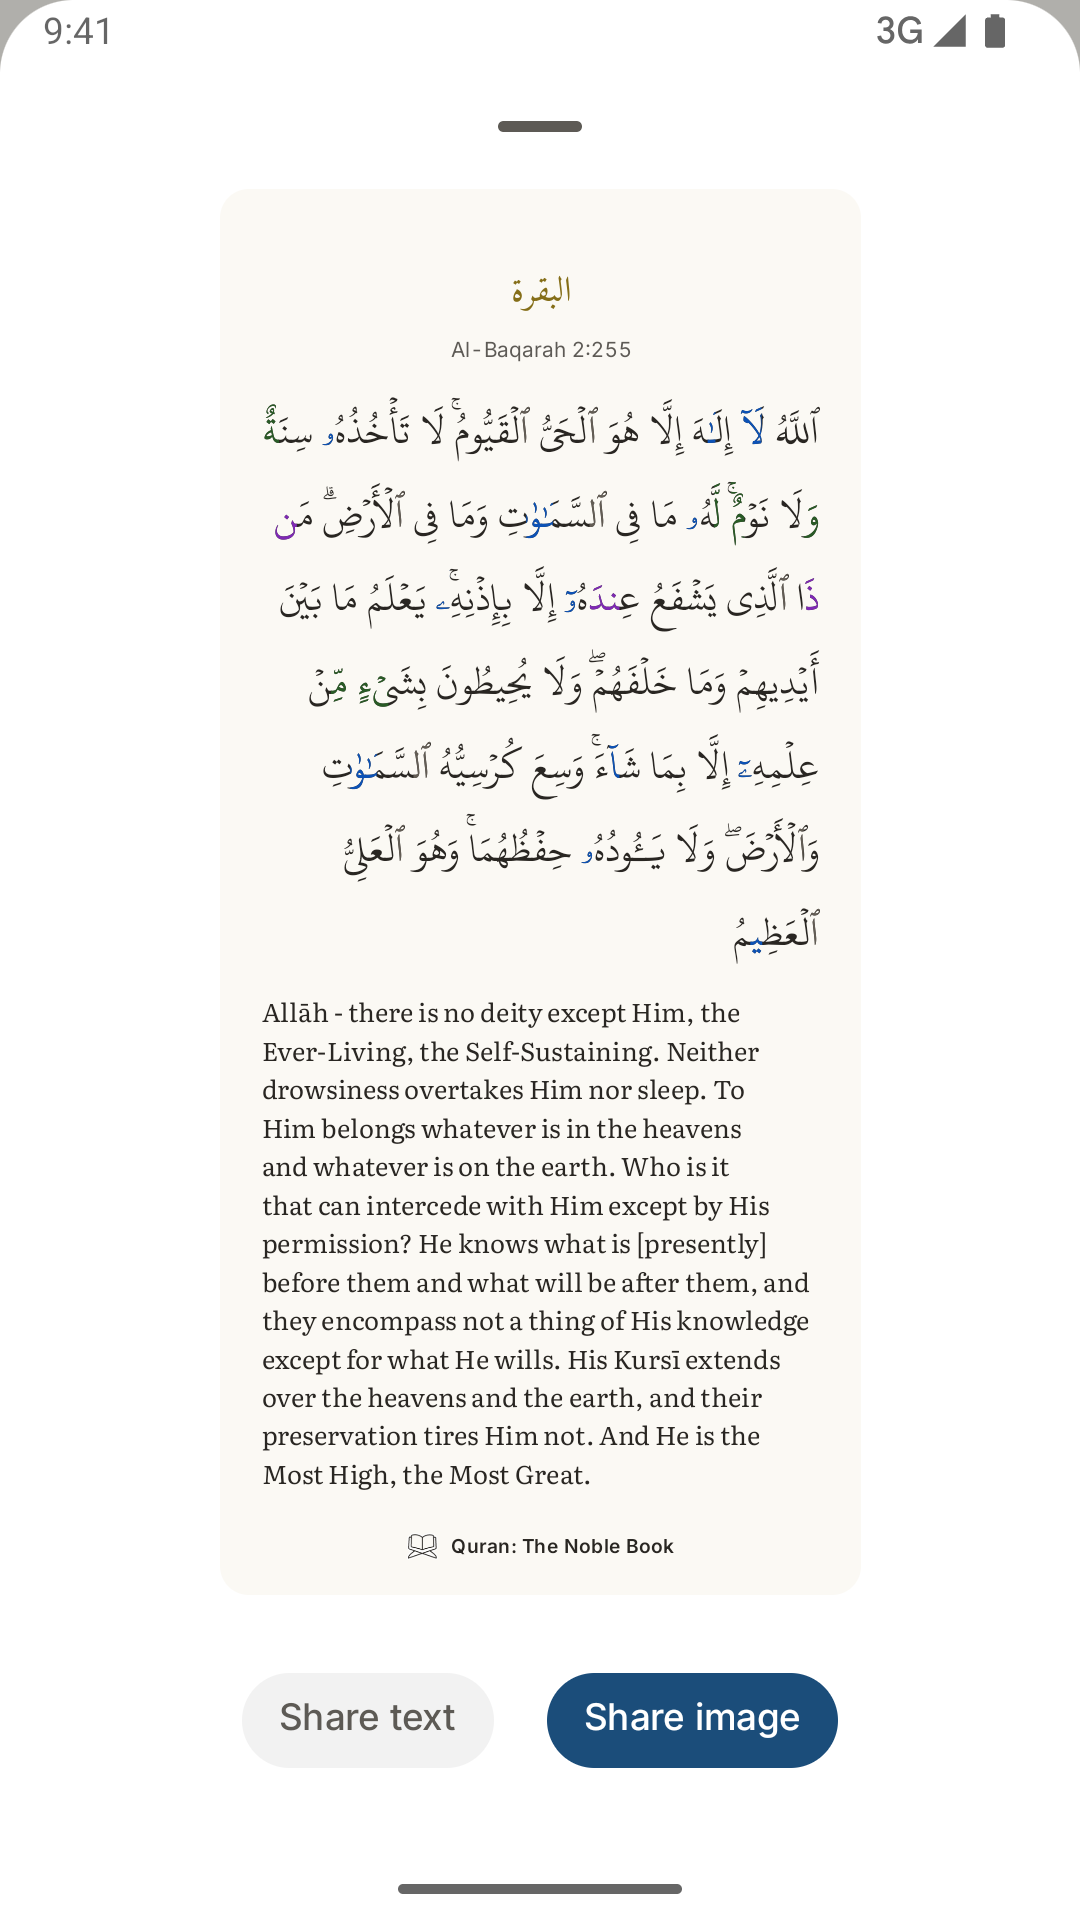
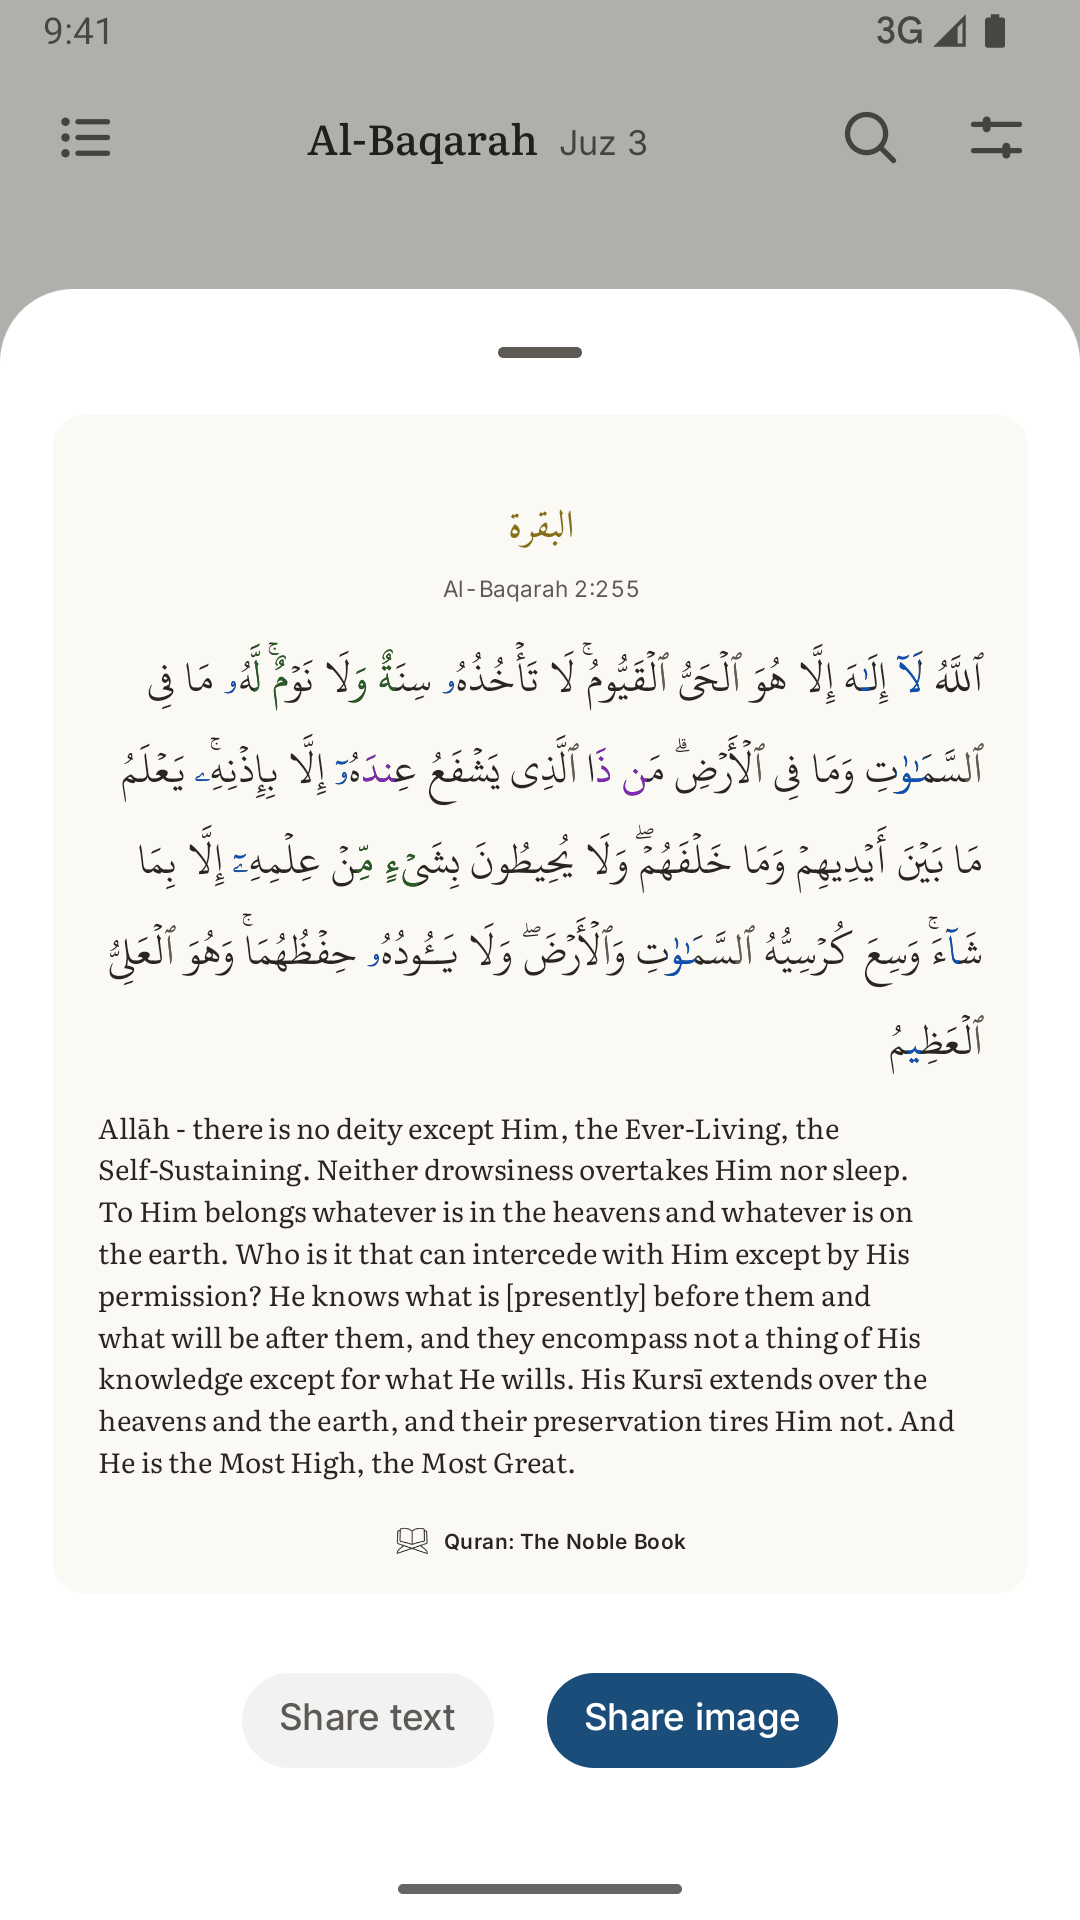
21.7: the share card meets the feed

diff --git a/app/src/test/kotlin/io/github/muntasimulhaque/quran/ShareCardWidthTest.kt b/app/src/test/kotlin/io/github/muntasimulhaque/quran/ShareCardWidthTest.kt
@@ -1,8 +1,8 @@
 package io.github.muntasimulhaque.quran
 
 import androidx.compose.ui.unit.dp
+import io.github.muntasimulhaque.quran.ui.reader.ShareCardFeedLimit
 import io.github.muntasimulhaque.quran.ui.reader.ShareCardMeasure
-import io.github.muntasimulhaque.quran.ui.reader.ShareCardPosterRatio
 import io.github.muntasimulhaque.quran.ui.reader.ShareCardWidths
 import io.github.muntasimulhaque.quran.ui.reader.shareCardWidth
 import org.junit.Assert.assertEquals
@@ -12,32 +12,36 @@ import org.junit.Test
 /**
  * The card's shape, chosen by arithmetic on a machine with no screen.
  *
- * The card is one column of reading with a height the ayah decides, so a long
- * ayah used to leave the app as a 1:3 or a 1:9 strip. The card now widens
- * before it grows into one, and this is the rule that decides by how much:
- * the ladder's width whose measured card stands closest to
- * [ShareCardPosterRatio], stopping at the first card at or under the ratio
- * because every wider one is shorter still.
+ * A feed gives a picture the feed's own width only while the picture stands
+ * within [ShareCardFeedLimit], and a taller one is contained into a shorter
+ * box. The card widens until it stands inside that limit, and this is the
+ * rule that decides by how much: the narrowest rung whose measured card
+ * fits, or the widest rung when no rung does.
  *
- * The numbers below are the shapes the owner's two cards had when the rule
- * was written: Al-Baqarah 2:255, which the card the owner shared carried at
- * 1:3.1, and 2:282, the longest ayah, at about 1:7.3. The preview reports
+ * The numbers below are the shapes the two cards measured when the rule was
+ * re-aimed at the feed: Al-Baqarah 2:255, the card the owner shared when
+ * Facebook stood it narrow, and 2:282, the longest ayah. The three narrower
+ * 2:255 measures were recorded when the ladder was written, and the 560 one
+ * was taken from the capture's own 3x print on quran_phone, because a
+ * card's height is a drawn thing and not arithmetic. The preview reports
  * the chosen width through `onWidth` and the capture draws that same width,
  * so this is the one answer the two surfaces share.
  */
-class ShareCardPosterTest {
+class ShareCardWidthTest {
 
     @Test
-    fun theLongAyahWidensToItsPoster() {
-        // 2:255 measured at the ladder; the preview stops at 480, the first
-        // card at or under 2:1, and 400 is the closer of the three.
+    fun theLongAyahWidensIntoTheFeed() {
+        // 2:255 measured at the ladder: the first three rungs stand outside
+        // the limit and the 560 card is the first inside it.
         assertEquals(
-            400.dp,
+            560.dp,
             shareCardWidth(
                 listOf(
                     ShareCardMeasure(320.dp, 960.dp),
                     ShareCardMeasure(400.dp, 860.dp),
                     ShareCardMeasure(480.dp, 692.dp),
+                    // The capture printed 2,027 px at its 3x, a 1.207 shape.
+                    ShareCardMeasure(560.dp, 676.dp),
                 ),
             ),
         )
@@ -45,7 +49,8 @@ class ShareCardPosterTest {
 
     @Test
     fun theLongestAyahTakesTheWidestCard() {
-        // 2:282 never reaches 2:1, so the widest card is the closest it gets.
+        // 2:282 never fits the limit, so the widest card is the closest it
+        // gets.
         assertEquals(
             560.dp,
             shareCardWidth(
@@ -61,36 +66,22 @@ class ShareCardPosterTest {
 
     @Test
     fun anOrdinaryAyahKeepsOneColumn() {
-        // A card already squarer than the poster is not widened: every wider
-        // card is shorter still, and farther from the shape the card wants.
+        // A card already inside the limit is not widened: every wider rung
+        // only spreads the same type over more dp.
         assertEquals(320.dp, shareCardWidth(listOf(ShareCardMeasure(320.dp, 380.dp))))
     }
 
     @Test
-    fun theWidthWhoseCardIsClosestWins() {
-        // At 320 the card is 2.5 times tall and at 400 it is 1.9: the 400 card
-        // is the nearer one even though the 320 card already reads as a card.
+    fun theCardStaysAtTheFirstRungInsideTheLimit() {
+        // At 320 the card stands outside the limit and at 400 it is inside:
+        // the 400 card is the narrowest that fits, so the type stays as
+        // large as the limit allows.
         assertEquals(
             400.dp,
             shareCardWidth(
                 listOf(
-                    ShareCardMeasure(320.dp, 800.dp),
-                    ShareCardMeasure(400.dp, 760.dp),
-                ),
-            ),
-        )
-    }
-
-    @Test
-    fun aTieGoesToTheNarrowerCard() {
-        // 2.5 and 1.5 are equally far from the 2:1 the card wants; the narrow
-        // card keeps the type large, so the tie goes to it.
-        assertEquals(
-            320.dp,
-            shareCardWidth(
-                listOf(
-                    ShareCardMeasure(320.dp, 800.dp),
-                    ShareCardMeasure(400.dp, 600.dp),
+                    ShareCardMeasure(320.dp, 560.dp),
+                    ShareCardMeasure(400.dp, 470.dp),
                 ),
             ),
         )
@@ -104,7 +95,7 @@ class ShareCardPosterTest {
             "the ladder rises",
             ShareCardWidths.zipWithNext().all { (narrow, wide) -> wide > narrow },
         )
-        assertEquals("the poster ratio", 2f, ShareCardPosterRatio, 0.001f)
+        assertEquals("the feed's own portrait, five quarters tall", 1.25f, ShareCardFeedLimit, 0.001f)
         assertEquals(
             "an unmeasured card keeps the one column",
             320.dp,

diff --git a/app/src/main/kotlin/io/github/muntasimulhaque/quran/ui/reader/ShareCard.kt b/app/src/main/kotlin/io/github/muntasimulhaque/quran/ui/reader/ShareCard.kt
@@ -48,34 +48,44 @@ import io.github.muntasimulhaque.quran.ui.theme.Space
 import io.github.muntasimulhaque.quran.ui.theme.rememberHafs
 import kotlinx.coroutines.Dispatchers
 import kotlinx.coroutines.withContext
-import kotlin.math.abs
 
 /**
  * The widths a card may take, narrowest first.
  *
  * The card is one column of reading at 320 dp, the width that shows a phone
- * ayah well. Its height is the ayah's and not a design number, so a long ayah
- * would otherwise be a strip: at 320, Al-Baqarah 2:255 is 1:3 and 2:282 is
- * 1:9, and a receiver that clamps a tall picture at 1280 px shows the longest
- * one about 174 px wide. The card therefore widens before it grows into a
- * strip, in 80 dp steps up to the 560 that is still narrower than the
- * reading's own 600 dp page. [shareCardWidth] picks the step from the
- * measured card, and the preview and the capture both read that one answer
- * (owner decision, this version).
+ * ayah well. Its height is the ayah's and not a design number, so a long
+ * ayah would otherwise be a strip: at 320, Al-Baqarah 2:255 is 1:3 and
+ * 2:282 is 1:9, and a receiver that clamps a tall picture at 1280 px shows
+ * the longest one about 174 px wide. But the reason a card widens is bigger
+ * than the strip: a feed gives a picture the feed's own width only while
+ * the picture stands within [ShareCardFeedLimit], and a taller one is shown
+ * whole in a shorter box, standing narrow with the feed's ground where the
+ * width should be (owner report, 21.7). The card therefore widens, in 80 dp
+ * steps up to the 560 that is still narrower than the reading's own 600 dp
+ * page, until it stands inside the limit; the longest ayahs, which overflow
+ * every rung, take the 560, the closest any card gets. [shareCardWidth]
+ * picks the rung from the measured card, and the preview and the capture
+ * both read that one answer (owner decision, 21.7).
  */
 internal val ShareCardWidths = listOf(320.dp, 400.dp, 480.dp, 560.dp)
 
 /**
- * The shape every card aims at: twice as tall as it is wide.
+ * The tallest card a feed still shows at its own width: five quarters as
+ * tall as it is wide, the 4:5 portrait (1080 by 1350) that Meta names as
+ * the feed's own shape for a single picture.
  *
- * A portrait poster at 1:2 is a chat picture; 1:3 is a receipt and 1:9 is a
- * strip a receiver shrinks to nothing. The card takes the width whose measured
- * card stands closest to this ratio, because a wider card is a shorter card,
- * and a receiver that clamps the height shows a shorter picture wider and its
- * type larger. The common ayah never leaves 320; Al-Baqarah 2:255 lands at 400
- * (1:2.15) and 2:282 at 560 (1:2.26) (owner decision, this version).
+ * A chat clamps pixels and a feed clamps shape. The card's former aim, a
+ * 1:2 portrait, is a chat picture: a receiver that clamps a tall picture's
+ * pixels shows it whole, only smaller. But Facebook's feed, and Instagram's,
+ * hold a picture to 4:5 before they give it the feed's width, and a taller
+ * one is contained into a shorter box or center-cropped on the surfaces
+ * that crop, which is what the owner's shared 2:255 card met: it left the
+ * app at 1:2.15 and Facebook stood it narrow (owner report, 21.7). At the
+ * ladder's 560 the same card stands near a square and takes the feed's
+ * whole width, so the card aims inside this limit rather than at a shape
+ * of its own choosing (owner decision, 21.7).
  */
-internal const val ShareCardPosterRatio = 2f
+internal const val ShareCardFeedLimit = 1.25f
 
 /** One measured card: the width it was drawn at, and the height it took. */
 internal data class ShareCardMeasure(val width: Dp, val height: Dp) {
@@ -84,30 +94,21 @@ internal data class ShareCardMeasure(val width: Dp, val height: Dp) {
 }
 
 /**
- * The width whose card stands closest to [ShareCardPosterRatio].
+ * The narrowest rung whose card stands inside [ShareCardFeedLimit].
  *
- * [measures] are the cards measured narrowest first. The search stops at the
- * first width at or under the ratio, because every wider card is shorter
- * still and can only be farther from it; a tie goes to the narrower card, and
- * an empty list to the ladder's first width. The arithmetic is here so a JVM
- * test can pin the rule without a screen, which is the only way a card's
- * shape can be read back.
+ * [measures] are the cards measured narrowest first, and every wider rung
+ * is shorter still, so the search stops at the first width inside the
+ * limit and no wider one is needed. A card that overflows every measured
+ * rung takes the last one, the widest, which is the closest any rung gets
+ * to the limit; an empty list keeps the ladder's first width. The
+ * arithmetic is here so a JVM test can pin the rule without a screen, which
+ * is the only way a card's shape can be read back.
  */
 internal fun shareCardWidth(measures: List<ShareCardMeasure>): Dp {
-    val first = measures.firstOrNull() ?: return ShareCardWidths.first()
-    var best = first
-    var bestGap = abs(first.ratio - ShareCardPosterRatio)
-    if (first.ratio > ShareCardPosterRatio) {
-        for (measure in measures.drop(1)) {
-            val gap = abs(measure.ratio - ShareCardPosterRatio)
-            if (gap < bestGap) {
-                best = measure
-                bestGap = gap
-            }
-            if (measure.ratio <= ShareCardPosterRatio) break
-        }
+    for (measure in measures) {
+        if (measure.ratio <= ShareCardFeedLimit) return measure.width
     }
-    return best.width
+    return measures.lastOrNull()?.width ?: ShareCardWidths.first()
 }
 
 /**

diff --git a/app/src/main/kotlin/io/github/muntasimulhaque/quran/ui/reader/ShareSheet.kt b/app/src/main/kotlin/io/github/muntasimulhaque/quran/ui/reader/ShareSheet.kt
@@ -197,15 +197,17 @@ internal fun ShareCardPreview(card: ShareCard, width: Dp = ShareCardWidths.first
  * an ordinary ayah was cut; the version before this one scaled the whole card
  * at a fixed 320 dp, which showed a long ayah as a 1:3 strip and the longest
  * as a 1:9 one. The preview now measures the card at each of
- * [ShareCardWidths] and keeps the one closest to [ShareCardPosterRatio], then
- * says that width through [onWidth] so the capture draws the same card. The
- * layer carries the scale to the drawing, so the type is set at the card's
- * own size and then reduced as one picture, which is exactly what the shared
- * image is. The card never scales up past 1, because a preview of a 320 dp
- * artifact should not be larger than the artifact.
+ * [ShareCardWidths] and keeps the narrowest one that stands inside
+ * [ShareCardFeedLimit], or the widest when the card overflows them all
+ * (owner decision, 21.7), then says that width through [onWidth] so the
+ * capture draws the same card. The layer carries the scale to the drawing,
+ * so the type is set at the card's own size and then reduced as one
+ * picture, which is exactly what the shared image is. The card never scales
+ * up past 1, because a preview of a 320 dp artifact should not be larger
+ * than the artifact.
  *
- * The measure stops at the first width at or under the poster ratio: every
- * wider card is shorter still, so nothing wider can stand closer to it. The
+ * The measure stops at the first width inside the feed limit: every wider
+ * card is shorter still, so no wider rung is needed once one fits. The
  * writes to the chosen width are guarded, so the first frame settles on one
  * answer and the measure does not run again.
  *
@@ -247,7 +249,7 @@ internal fun ShareCardPreviewBox(
                     .measure(Constraints.fixedWidth(wide))
                 cards += width to placeable
                 measured += ShareCardMeasure(width, with(density) { placeable.height.toDp() })
-                if (measured.last().ratio <= ShareCardPosterRatio) break
+                if (measured.last().ratio <= ShareCardFeedLimit) break
             }
             val width = shareCardWidth(measured)
             if (width != chosen) chosen = width

diff --git a/README.md b/README.md
@@ -200,46 +200,31 @@ tagged `owner decision`, and a test measures the ones that can be measured, so
 
 ## Status
 
-**21.6 (versionCode 218).** The whole JVM suite, `checkdb`, `search`,
-lint, and `assembleDebug` were green on this machine before the push, and the
-four accessibility classes ran on the phone because the diff touches
-`feature-reading/`: `AccessibilityTest`, `LargeTextTest`,
-`ReadingSemanticsTest`, and `KeyboardFocusTest`, 10 tests and no failures. No
-visible surface changed, so the three store sets stand as captured for 21.2,
-and no content, no string, and no permission moved. The reading scrolls back up
-the way it scrolls down, and the profile the app ships is the measured one now.
-The signed bundle comes from `build` run 45003696136, green on `main` for the
-commit `de4bdd45`: the unit tests, `checkdb`, `search`, lint, and
-`assembleDebug` passed, and the signed bundle `quran-21.6-vc218.aab` has
-SHA-256
[1 lines of base64/hex data omitted]
-`jarsigner` reads `jar verified`, the bundle's own manifest reads
-`versionName 21.6`, and the upload certificate is the same key 21.4 and 21.5
-shipped under, SHA-256
-`53:7D:09:D2:03:00:12:9E:97:3B:79:45:31:6B:FE:24:CF:AD:CF:BC:77:EE:C5:22:9C:BF:30:17:0D:9D:E5:21`.
-The 21.6 bundle was submitted for Play review, and the hand-off copy in
-`play-store/aab/` was deleted once Play had it.
+**21.7 (versionCode 219).** The whole JVM suite, `checkdb`, `search`, lint,
+and `assembleDebug` were green on this machine before the push. The diff
+touches `app/src/main/kotlin/io/github/muntasimulhaque/quran/ui/reader/`, so
+the four accessibility classes were owed, and the share card's shape rule
+moved, so the four share classes ran with them: 16 tests on the phone, no
+failures. A visible surface changed, so all three store sets were captured
+again, on the phone, the 7 inch, and the 10 inch, and the share card's frame
+shows the wider card. No content, no string, and no permission moved. The
+signed bundle comes from the `build` run on `main` after this commit, and its
+name and SHA-256 follow that run.
 
-**What changed in 21.6.** The reading keeps a whole screen of rows on either
-side of the glass now (owner decision, 21.6). A lazy list builds the row ahead
-of the reader and throws the row behind them away, so a reader who scrolls back
-up rebuilt every block on the frame it returned: the shaped Arabic line, the
-translation's runs, and the words a screen reader speaks. Counted on the phone
-with a temporary counter in the block, a return of four blocks rebuilt two blocks
-at the list's default and one with the window, and the same counter showed that
-no block recomposes during a scroll, so every block a return met was a fresh
-composition. The bar's rule, the place, the taps, and the sheets are untouched.
-
-The shipped profile is the one the benchmark module generates by walking the
-app, not the nineteen hand-written rules that named the launch path alone. The
-journey was missing its walk back, which its own note had promised, so the
-page the reading rebuilds was never compiled; it is in the journey now. Cold
-start measured a median of 4504 ms before and 2559 ms after through
-`am start -W` on the phone, with the spread tightening from 3.3 to 6.3
-seconds to 2.3 to 2.7, because the startup metric cannot read this emulator's
-frame timeline. The benchmark module also reads the scroll in both directions
-now, with the frame timeline for a real phone and the choreographer's own frame
-for a machine whose GPU is the bottleneck.
+**What changed in 21.7.** The share card meets the feed (owner decision,
+21.7). A long ayah's card was aimed at a 1:2 portrait, a chat's picture,
+because a chat clamps a tall picture's pixels and shows it whole. A feed
+clamps the shape instead: Facebook and Instagram give a picture the feed's
+own width only up to the 4:5 portrait, and a taller one is contained into a
+shorter box, standing narrow with the feed's ground beside it, which is what
+a shared Al-Baqarah 2:255 card met. The card now widens until it stands
+inside that limit, so 2:255 takes the ladder's 560 dp card and stands at
+1.207, a picture a feed shows at its full width. An ayah already inside the
+limit keeps its one column, and the longest ayahs keep the widest card and
+still stand taller than a feed shows at full width. The preview and the
+capture read the one rule, and the test that pins it carries both cards'
+recorded shapes, the 2:255 one taken from the capture's own print on the
+phone.
 
 **What changed in 21.4.** The compile platform is 37.1, declared as
 `compileSdk = 37` with `compileSdkMinor = 1` in all ten modules;

diff --git a/RELEASES.md b/RELEASES.md
@@ -6,6 +6,29 @@ ones live here so the front page can be about the app rather than about its
 history. The reason a decision was made lives in the KDoc beside the code it
 decided, tagged `owner decision`, and in `git log`.
 
+## 21.7
+
+A long ayah's share card stands at the width a feed gives a picture instead of
+standing narrow inside it.
+
+**The card's shape.** The card was aimed at a 1:2 portrait, on the reasoning
+that a chat clamps a tall picture's pixels and shows it whole, only smaller.
+A feed clamps the picture's shape instead: Facebook and Instagram give a
+picture the feed's own width only up to the 4:5 portrait, 1080 by 1350, and a
+taller one is contained into a shorter box, standing whole but narrow with
+the feed's ground where the width should be, or center-cropped where the
+surface crops. That is what a shared Al-Baqarah 2:255 card met: it left the
+app at 1:2.15 and Facebook stood it narrow beside a column of other posts.
+The ladder now widens until the card stands inside 4:5, in the same 80 dp
+steps, and the owner's own card shows the rule: 2:255 is 1:3 at 320 dp, and
+at 560 dp it stands at 1.207, a 1,680 by 2,027 px picture at the capture's
+3x, which a feed shows at its full width. An ordinary ayah already inside
+the limit never moves; a card that overflows every rung, like 2:282, keeps
+the widest card as before, and a feed will still contain it, small but whole
+with a tap to the full picture. The preview and the capture read the one
+rule, and the JVM test that pins it carries both cards' recorded shapes, the
+2:255 one taken from the capture's own print on the phone.
+
 ## 21.6
 
 The reading scrolls back up the way it scrolls down, and a first launch reaches

diff --git a/play-store/listing.md b/play-store/listing.md
@@ -1,6 +1,6 @@
 # Store kit
 
-Version: 21.5 (versionCode 217)
+Version: 21.7 (versionCode 219)
 
 ## Listing
 
